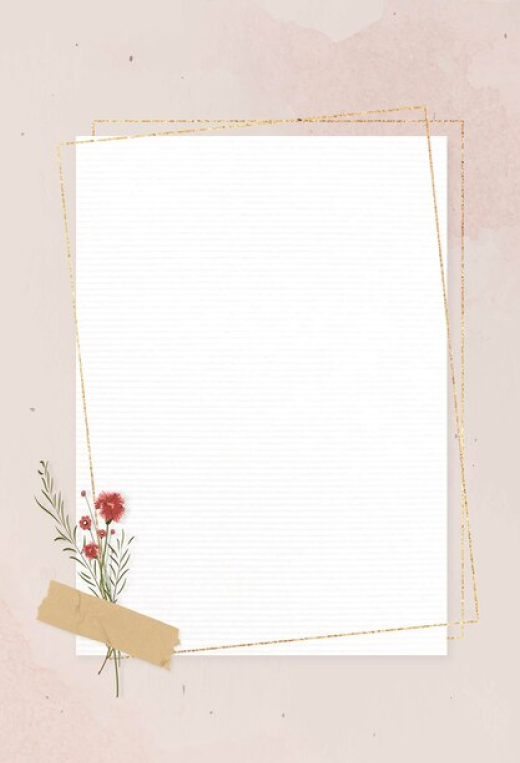
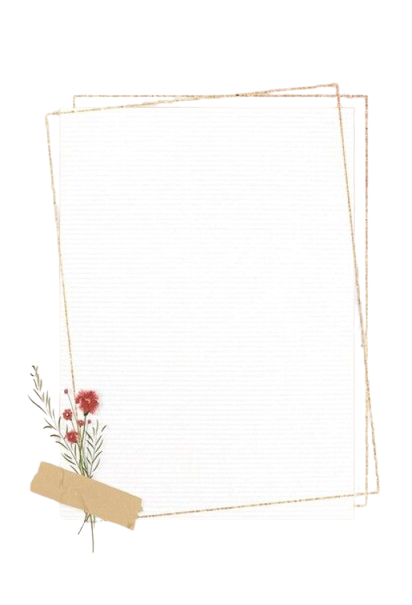
feat: change style & image

diff --git a/src/components/CheckForm2.tsx b/src/components/CheckForm2.tsx
@@ -70,9 +70,7 @@ export default function CheckForm({ survey2 }: CheckFormProps) {
         <div className="overflow-y-auto max-h-calcResultPage pb-[10rem]">
           {survey2.map((survey) => (
             <div
-              className={`text-[5rem] mx-[3.5rem] mt-[4rem] px-[3rem] py-[2rem] border rounded-2xl ${
-                survey.id % 2 === 0 ? "bg-[#f6f7f9] border-none" : "bg-white"
-              }`}
+              className={`text-[5rem] mx-[3.5rem] mb-[3rem] px-[3rem] py-[2rem] border rounded-2xl`}
               key={survey.id + survey.choiceQuestion}
             >
               <div>
@@ -80,19 +78,16 @@ export default function CheckForm({ survey2 }: CheckFormProps) {
                   step {survey.id}
                 </div>
                 <div className="my-[1.8rem]">
-                  <div className="text-[2rem] leading-[2.4rem] text-[#999]">
-                    {survey.choiceQuestion}
+                  <div className="text-[1.8rem] leading-[2.6rem] text-[#999]">
+                    Q. {survey.choiceQuestion}
                   </div>
                   <div
-                    className={`w-full flex text-[2.1rem] leading-[2.8rem] font-bold p-[1.5rem] mt-[1.2rem] rounded-[2rem] ${
-                      survey.id % 2 === 1 ? "bg-[#f6f7f9]" : "bg-white"
-                    }`}
+                    className={`w-full flex text-[2.1rem] leading-[2.8rem] font-bold py-[1.5rem] mt-[1.2rem] rounded-[2rem] bg-white justify-start`}
                   >
                     <span
-                      className={`w-[4rem] min-w-[4rem] h-[4rem] rounded-[2rem] flex justify-center items-center
-                        ${survey.id % 2 === 0 ? "bg-[#f6f7f9]" : "bg-white"}`}
+                      className={`w-[4rem] min-w-[4rem] h-[4rem] rounded-[2rem] flex justify-center items-center bg-[#FFA89F] text-white`}
                     >
-                      <span className="block ml-[-0.2rem]">A</span>
+                      A
                     </span>
                     <span className="block ml-[1rem] mt-[0.4rem]">
                       {getAnswer(survey)}
@@ -101,20 +96,17 @@ export default function CheckForm({ survey2 }: CheckFormProps) {
                 </div>
                 {survey.type === "mix" && (
                   <>
-                    <div className="w-full h-[0.1rem] bg-black my-[2rem]" />
-                    <div className="text-[1.8rem] leading-[2.4rem] text-[#999]">
-                      {survey.subjectQuestion}
+                    <div className="w-full h-[0.1rem] bg-[#ccc] my-[2rem] " />
+                    <div className="text-[1.8rem] leading-[2.6rem] text-[#999]">
+                      Q. {survey.subjectQuestion}
                     </div>
                     <div
-                      className={`w-full flex text-[2.1rem] leading-[2.8rem] font-bold p-[1.5rem] mt-[1.2rem] rounded-[2rem] ${
-                        survey.id % 2 === 1 ? "bg-[#f6f7f9]" : "bg-white"
-                      }`}
+                      className={`w-full flex text-[2.1rem] leading-[2.8rem] font-bold py-[1.5rem] mt-[1.2rem] rounded-[2rem] bg-white justify-start`}
                     >
                       <span
-                        className={`w-[4rem] min-w-[4rem] h-[4rem] rounded-[2rem] flex justify-center items-center
-                        ${survey.id % 2 === 0 ? "bg-[#f6f7f9]" : "bg-white"}`}
+                        className={`w-[4rem] min-w-[4rem] h-[4rem] rounded-[2rem] flex justify-center items-center bg-[#FFA89F] text-white`}
                       >
-                        <span className="block ml-[-0.2rem]">A</span>
+                        A
                       </span>
                       <span className="block ml-[1rem] mt-[0.4rem]">
                         {answerUser2 && getSubjectValue(survey.id)}

diff --git a/src/components/toolbar/index.tsx b/src/components/toolbar/index.tsx
@@ -4,24 +4,27 @@ import { AnswerUser1State, formStepState } from "@/store/atom";
 import Image from "next/image";
 import { useRouter } from "next/navigation";
 import { usePathname } from "next/navigation";
+import { useEffect } from "react";
 
 import { useRecoilState, useSetRecoilState } from "recoil";
 
 export default function Toolbar() {
   const router = useRouter();
   const pathname = usePathname();
-
   const [formStep, setFormStep] = useRecoilState(formStepState);
   const setAnswerUser1 = useSetRecoilState(AnswerUser1State);
 
   const handleBackButton = () => {
-    if (formStep > 0) {
+    if (formStep > 0 && pathname.indexOf("first") !== -1) {
+      console.log(formStep);
       setFormStep(formStep - 1);
     } else if (pathname.indexOf("first") === -1) {
+      console.log(formStep);
       history.back();
     } else {
       if (!window.confirm("선택한 정보가 모두 지워집니다.\n 뒤로가시겠습니까?"))
         return;
+      console.log(formStep);
       setFormStep(0);
       setAnswerUser1([]);
       router.back();
@@ -41,7 +44,7 @@ export default function Toolbar() {
   };
   return (
     <header
-      className={`w-full flex justify-between p-4 absolute top-0 left-0 z-10 ${
+      className={`w-full flex justify-between p-4 absolute top-0 left-0 z-50 ${
         pathname.indexOf("first") === -1 ? "bg-white" : ""
       }`}
     >
@@ -52,7 +55,9 @@ export default function Toolbar() {
         <Image src="/logo.png" alt="육아응원" width={81} height={28} />
       </h1>
       <div onClick={handleCloseButton}>
-        <div className="text-[2.4rem] px-[1.8rem] pb-[1rem]">x</div>
+        <div className="text-[2.4rem] px-[1.8rem] pt-[1rem] pb-[1rem]">
+          <Image src="/close.png" alt="육아응원" width={24} height={24} />
+        </div>
       </div>
     </header>
   );

diff --git a/src/components/Paper.tsx b/src/components/Paper.tsx
@@ -3,9 +3,15 @@ import PledgeCardWrap from "@/components/PledgeCardWrap";
 import Document from "@/components/document";
 import Toolbar from "@/components/toolbar";
 import { ResultDataType, SurveyListType } from "@/model/survey";
-import { OpenModalState } from "@/store/atom";
+import {
+  AnswerUser1State,
+  AnswerUser2State,
+  OpenModalState,
+} from "@/store/atom";
 import CustomBottomModal from "./CustomBottomModal";
 import { useRecoilState } from "recoil";
+import { useEffect } from "react";
+import Image from "next/image";
 
 interface PaperPageProps {
   data: ResultDataType;
@@ -14,11 +20,27 @@ interface PaperPageProps {
 }
 export default function PaperPage({ data, survey1, survey2 }: PaperPageProps) {
   const [openModal, setOpenModal] = useRecoilState(OpenModalState);
+  const [answerUser1, setAnswerUser1] = useRecoilState(AnswerUser1State);
+  const [answerUser2, setAnswerUser2] = useRecoilState(AnswerUser2State);
+
+  useEffect(() => {
+    if (data) {
+      setAnswerUser1(JSON.parse(data.user1_data));
+      setAnswerUser2(JSON.parse(data.user2_data));
+    }
+  }, [data]);
 
   return (
     <div>
-      <Toolbar />
+      <Image
+        className="mx-auto w-[12rem] my-[1rem]"
+        src="/logo.png"
+        alt="육아응원"
+        width={162}
+        height={81}
+      />
       <PledgeCardWrap name={data.baby_name} />
+
       {openModal && (
         <CustomBottomModal
           toggle={openModal}

diff --git a/src/app/(pages)/promotion/pledge/page.tsx b/src/app/(pages)/promotion/pledge/page.tsx
@@ -54,6 +54,7 @@ export default function PledgeMainPage() {
             </h1>
             <div className="mt-[9.3rem] w-[46.2rem] h-[34.5rem] mx-auto">
               <Image src="/receiver_bg.png" alt="bg" width={462} height={345} />
+              {/* <a href="https://kr.freepik.com/free-vector/illustration-of-a-man-giving-a-love-letter_3132804.htm#query=%EB%B6%80%EB%B6%80%20%EC%84%9C%EC%95%BD%EC%84%9C&position=0&from_view=search&track=ais&uuid=118961a1-c45b-4f79-9523-3d83063aa74f">작가 rawpixel.com</a> 출처 Freepik */}
             </div>
 
             <CustomBottomModal
@@ -124,7 +125,9 @@ export default function PledgeMainPage() {
     );
 
   return (
-    <section className="w-full max-w-[52rem] h-[100svh] bg-[url('/info_bg.png')] bg-contain bg-center bg-origin-contain">
+    <section className="w-full max-w-[52rem] h-[100svh] bg-[url('/info_bg.png')] bg-no-repeat bg-contain bg-center bg-origin-contain bg-[#E8DDD7]">
+      {/* <a href="https://kr.freepik.com/free-vector/blank-rectangle-gold-frame-on-pink-background-template-vector_
+18240847.htm#query=letter&position=3&from_view=search&track=sph&uuid=2f4708ef-3266-42af-ad0f-3c476aa5de94">작가 rawpixel.com</a> 출처 Freepik */}
       <div className="w-full absolute left-[0] top-[50%] translate-y-[-50%]">
         <h1 className="text-[2.6rem] leading-[4.5rem] text-center font-bold">
           나의 반쪽인 사람과 만드는

diff --git a/src/components/PledgeCard.tsx b/src/components/PledgeCard.tsx
@@ -13,7 +13,7 @@ interface PledgeCardProps {
 export default function PledgeCard({ name }: PledgeCardProps) {
   const [card, setCard] = useState(false);
   const [openModal, setOpenModal] = useRecoilState(OpenModalState);
-  console.log(openModal);
+
   return (
     <div
       className="card-wrap relative"
@@ -32,17 +32,19 @@ export default function PledgeCard({ name }: PledgeCardProps) {
               loading="lazy"
               src="/logo_white.png"
               alt="육아응원"
-              className="pt-[2rem] w-[8.1rem] mx-auto"
+              className="pt-[2rem] w-[6rem] mx-auto mt-[2.4rem]"
               width={162}
               height={56}
             />
-            <Letter />
-            <div className="text-white text-center text-[2.6rem] leading-[3.4rem]">
+            <div className="mt-[-3rem]">
+              <Letter />
+            </div>
+            <div className="text-white text-center text-[2.6rem] leading-[3.4rem] mt-[-3rem]">
               {name}네 서약서가
               <br />
               도착했습니다
             </div>
-            <div className="mt-[15.4rem] text-[2rem] text-center">
+            <div className="mt-[21.4rem] text-[2rem] text-center">
               엄마♥아빠 함께 약속해요!
             </div>
             <div className="mt-[1.5rem] text-[1.6rem] text-center">

diff --git a/src/components/PledgeCardBack.tsx b/src/components/PledgeCardBack.tsx
@@ -31,6 +31,8 @@ export default function PledgeCardBack({ name, card }: PledgeCardBackProps) {
       <div
         className={`relative w-[39rem] h-[62.4rem] mx-auto bg-[url(/flower_img.png)] bg-cover shadow-md rounded-[2rem]`}
       >
+        {/* <a href="https://kr.freepik.com/free-vector/hand-painted-watercolor-floral-background_17437651.htm#query=%EA%BD%83&position=23&from_view=search&track=sph&uuid=d1a3578f-7621-42d0-83a1-6369c306975a">작가 coolvector</a> 출처 Freepik
+         */}
         {card && !finish && (
           <div
             className={`relative w-[39rem] h-[62.4rem] ${
@@ -78,8 +80,8 @@ export default function PledgeCardBack({ name, card }: PledgeCardBackProps) {
                   <br />
                   아래와 같이 서약합니다.
                 </div>
-                <div className="animate-[pledge4_2s_ease-in-out] mt-[6.4rem] text-[2rem]">
-                  배우자에게 공유하고
+                <div className="font-bold animate-[pledge4_2s_ease-in-out] mt-[6.4rem] text-[2.2rem]">
+                  <span className="text-[#FF5C00]">배우자에게 공유</span>하고
                   <br />
                   배우자의 서약서 작성이 완료되면
                   <br />

diff --git a/src/components/CheckForm.tsx b/src/components/CheckForm.tsx
@@ -1,9 +1,10 @@
 "use client";
 
 import { SurveyListType } from "@/model/survey";
-import { AnswerUser1State } from "@/store/atom";
-import { useRecoilValue } from "recoil";
+import { AnswerUser1State, formStepState } from "@/store/atom";
+import { useRecoilState, useRecoilValue } from "recoil";
 import { useRouter } from "next/navigation";
+import { useEffect } from "react";
 
 interface CheckFormProps {
   survey1: SurveyListType[];
@@ -11,6 +12,11 @@ interface CheckFormProps {
 export default function CheckForm({ survey1 }: CheckFormProps) {
   const router = useRouter();
   const answerUser1 = useRecoilValue(AnswerUser1State);
+  const [formStep, setFormStep] = useRecoilState(formStepState);
+
+  useEffect(() => {
+    setFormStep(0);
+  }, [formStep]);
 
   const getAnswer = (survey: SurveyListType) => {
     const getAnswerData = answerUser1.filter(

diff --git a/src/components/document.tsx b/src/components/document.tsx
@@ -76,6 +76,8 @@ export default function Document({ survey1, survey2 }: DocumentProps) {
 
   return (
     <div className="w-[52rem] h-[95svh] overflow-x-scroll text-[2rem] leading-[2.8rem] text-center bg-[url(/flower_img.png)] bg-cover bg-center px-[3rem]">
+      {/* <a href="https://kr.freepik.com/free-vector/hand-painted-watercolor-floral-background_17437651.htm#query=%EA%BD%83&position=23&from_view=search&track=sph&uuid=d1a3578f-7621-42d0-83a1-6369c306975a">작가 coolvector</a> 출처 Freepik
+       */}
       <div
         className="absolute top-[3rem] right-[3rem]"
         onClick={() => setOpenModal(false)}

diff --git a/src/components/GridLayout.tsx b/src/components/GridLayout.tsx
@@ -1,4 +1,5 @@
 "use client";
+import Image from "next/image";
 import { useEffect, useRef, useState } from "react";
 
 interface GridLayoutProps {
@@ -38,8 +39,8 @@ export default function GridLayout({
       </section>
 
       {width && width < 521 && scroll && (
-        <div className="relative left-[88vw] bottom-[8rem] text-[3rem] animate-bounce">
-          ↕
+        <div className="relative left-[88vw] bottom-[8rem] w-[4.2rem] h-[4.2rem] animate-bounce">
+          <Image src="/scroll.png" alt="스크롤하세요" width={42} height={42} />
         </div>
       )}
     </>

diff --git a/src/app/(pages)/promotion/pledge/form2/first/page.tsx b/src/app/(pages)/promotion/pledge/form2/first/page.tsx
@@ -6,6 +6,10 @@ export default async function FormFirstPage() {
 
   return (
     <div className="overflow-x-hidden w-full relative h-[100svh] bg-[url('/bg.png')] bg-no-repeat bg-contain">
+      {/* <a href="https://kr.freepik.com/free-photo/marshmallow-pink-baby-onesie-brush-pacifier-mil
+k-bottle-and-toy-on-white-background_3196497.htm#query=%EC%9C%A1%EC%95%84%20%EC%9A%A9%ED%9
+2%88&position=4&from_view=search&track=ais&uuid=4e27b0a9-b770-4194-a158-f9423d4ece00">Freepik</a> */}
+
       <FormLayout2 survey={survey.survey} />
     </div>
   );

diff --git a/src/app/(pages)/promotion/pledge/form/first/page.tsx b/src/app/(pages)/promotion/pledge/form/first/page.tsx
@@ -6,6 +6,10 @@ export default async function FormFirstPage() {
 
   return (
     <div className="overflow-x-hidden w-full relative h-[100svh] bg-[url('/bg.png')] bg-no-repeat bg-contain">
+      {/* <a href="https://kr.freepik.com/free-photo/marshmallow-pink-baby-onesie-brush-pacifier-mil
+k-bottle-and-toy-on-white-background_3196497.htm#query=%EC%9C%A1%EC%95%84%20%EC%9A%A9%ED%9
+2%88&position=4&from_view=search&track=ais&uuid=4e27b0a9-b770-4194-a158-f9423d4ece00">Freepik</a> */}
+
       <FormLayout survey={survey.survey} />
     </div>
   );

diff --git a/src/components/PledgeCardWrap.tsx b/src/components/PledgeCardWrap.tsx
@@ -6,7 +6,7 @@ interface PledgeCardWrapProps {
 export default function PledgeCardWrap({ name }: PledgeCardWrapProps) {
   return (
     <div className="w-full overflow-auto scroll-m-0">
-      <div className="py-[5rem]">
+      <div className="pb-[5rem]">
         {!name ? <div>Loding...</div> : <PledgeCard name={name} />}
       </div>
     </div>
